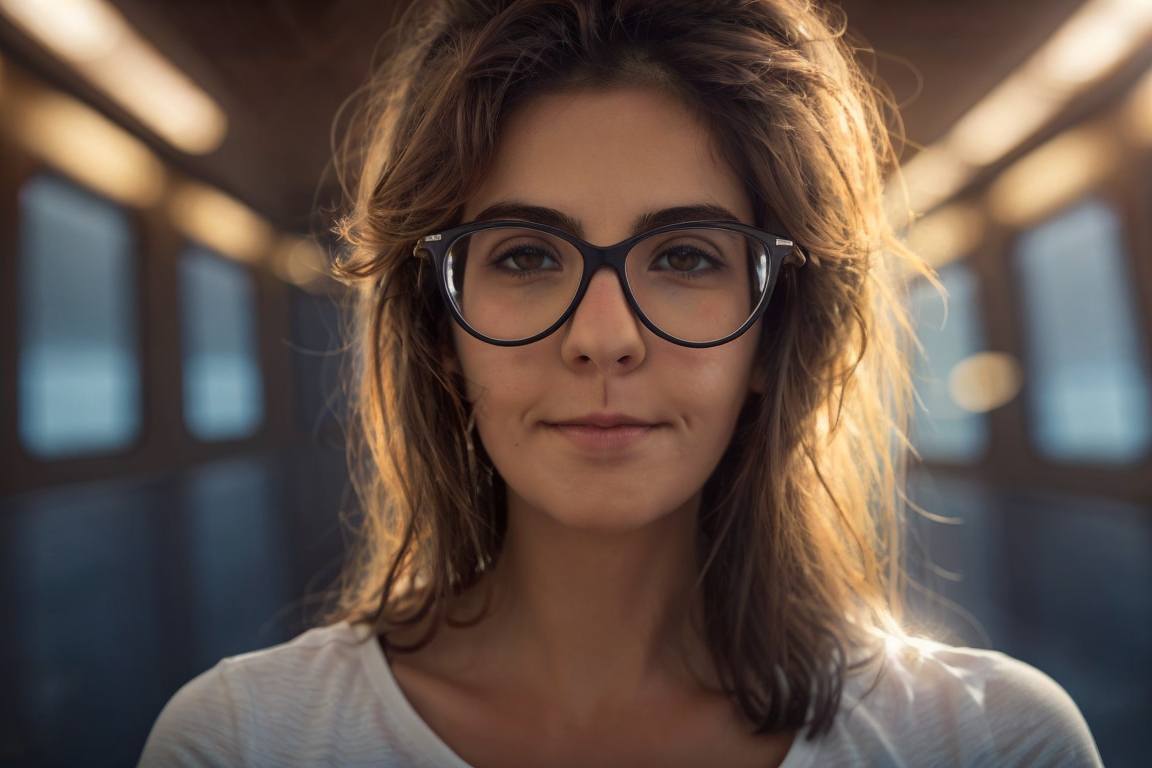
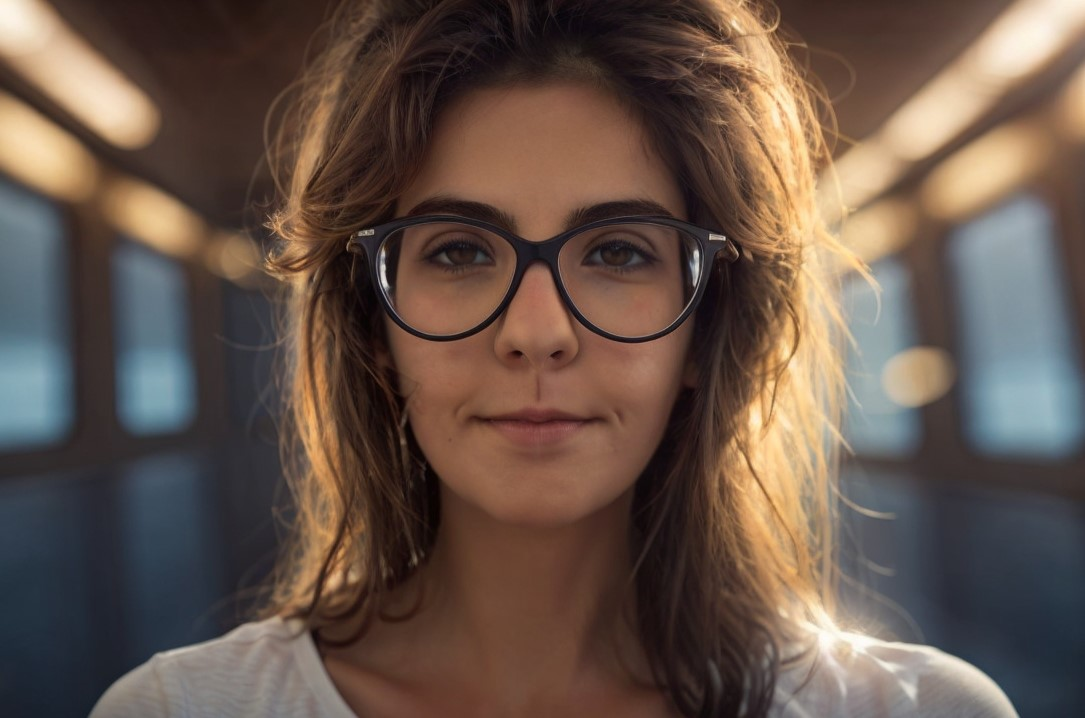
changes content, added blue dot

diff --git a/index.html b/index.html
@@ -7,8 +7,8 @@
         <link rel="stylesheet" href="stylesheet.css">
         <link href="https://fonts.googleapis.com/css2?family=Noto+Sans+Display&display=swap" rel="stylesheet">
 
-        <link rel="shortcut icon" href="C:\Users\Legion\Desktop\Learning-projects\CODE\LANDINGPAGE\media\favicon_sacrix.ico.svg" type="image/x-icon">
-        <link rel="icon" href="favicon_sacrix.ico.svg" type="image/x-icon">
+        <link rel="shortcut icon" href="C:\Users\Legion\Desktop\Learning-projects\CODE\LANDINGPAGE\media\favicon_sacrix.png" type="image/x-icon">
+        <link rel="icon" href="favicon_sacrix.png" type="image/x-icon">
 
        
 
@@ -19,7 +19,7 @@
     <main>
             <header>
                 <div class="svg-container">
-                    <svg width="209" height="51" viewBox="0 0 109 31" fill="none" xmlns="http://www.w3.org/2000/svg">
+                    <svg width="109" height="31" viewBox="0 0 109 31" fill="none" xmlns="http://www.w3.org/2000/svg">
                         <path d="M0 19.6081L5.68548 18.8333C5.92742 19.8183 6.41801 20.5691 7.15726 21.0856C7.89651 21.5901 8.93145 21.8423 10.2621 21.8423C11.7272 21.8423 12.8293 21.6021 13.5685 21.1216C14.0659 20.7853 14.3145 20.3348 14.3145 19.7703C14.3145 19.3859 14.1801 19.0676 13.9113 18.8153C13.629 18.5751 12.9973 18.3529 12.0161 18.1486C7.44624 17.2477 4.54973 16.4249 3.32661 15.6802C1.63306 14.6471 0.78629 13.2117 0.78629 11.3739C0.78629 9.71622 1.51882 8.32282 2.98387 7.19369C4.44892 6.06456 6.72043 5.5 9.79839 5.5C12.7285 5.5 14.9059 5.92643 16.3306 6.77928C17.7554 7.63213 18.7366 8.89339 19.2742 10.5631L13.9315 11.4459C13.703 10.7012 13.2661 10.1306 12.621 9.73423C11.9892 9.33784 11.082 9.13964 9.89919 9.13964C8.40726 9.13964 7.33871 9.32583 6.69355 9.6982C6.26344 9.96246 6.04839 10.3048 6.04839 10.7252C6.04839 11.0856 6.23656 11.3919 6.6129 11.6441C7.12366 11.9805 8.88441 12.455 11.8952 13.0676C14.9194 13.6802 17.0296 14.4309 18.2258 15.3198C19.4086 16.2207 20 17.476 20 19.0856C20 20.8393 19.1801 22.3468 17.5403 23.6081C15.9005 24.8694 13.4745 25.5 10.2621 25.5C7.34543 25.5 5.0336 24.9715 3.32661 23.9144C1.63306 22.8574 0.524194 21.4219 0 19.6081Z" fill="white"/>
                         <path d="M27.4122 11.7703L22.5527 10.9414C23.099 9.09159 24.0391 7.72222 25.3731 6.83333C26.7071 5.94444 28.6891 5.5 31.319 5.5C33.7075 5.5 35.4861 5.77027 36.655 6.31081C37.8238 6.83934 38.6433 7.51802 39.1133 8.34685C39.5961 9.16366 39.8375 10.6712 39.8375 12.8694L39.7803 18.7793C39.7803 20.461 39.8629 21.7042 40.0281 22.509C40.206 23.3018 40.5299 24.1547 41 25.0676H35.7021C35.5624 24.7312 35.3908 24.2327 35.1876 23.5721C35.0986 23.2718 35.0351 23.0736 34.997 22.9775C34.0822 23.8183 33.104 24.4489 32.0622 24.8694C31.0204 25.2898 29.9087 25.5 28.7272 25.5C26.6436 25.5 24.9983 24.9655 23.7914 23.8964C22.5971 22.8273 22 21.476 22 19.8423C22 18.7613 22.2732 17.8003 22.8195 16.9595C23.3658 16.1066 24.1281 15.458 25.1063 15.0135C26.0973 14.5571 27.5202 14.1607 29.3751 13.8243C31.878 13.3799 33.6122 12.9655 34.5777 12.5811V12.0766C34.5777 11.1036 34.3236 10.4129 33.8154 10.0045C33.3073 9.58408 32.348 9.37387 30.9378 9.37387C29.985 9.37387 29.2417 9.55405 28.7081 9.91441C28.1745 10.2628 27.7426 10.8814 27.4122 11.7703ZM34.5777 15.8784C33.8917 16.0946 32.8054 16.3529 31.319 16.6532C29.8325 16.9535 28.8606 17.2477 28.4032 17.536C27.7044 18.0045 27.3551 18.5991 27.3551 19.3198C27.3551 20.0285 27.6346 20.6411 28.1936 21.1577C28.7526 21.6742 29.4641 21.9324 30.328 21.9324C31.2935 21.9324 32.2146 21.6321 33.0913 21.0315C33.7392 20.5751 34.1648 20.0165 34.3681 19.3559C34.5079 18.9234 34.5777 18.1006 34.5777 16.8874V15.8784Z" fill="white"/>
                         <path d="M62.7206 11.5901L57.1916 12.491C57.0053 11.494 56.5795 10.7432 55.9142 10.2387C55.2621 9.73423 54.4105 9.48198 53.3593 9.48198C51.9621 9.48198 50.8443 9.92042 50.006 10.7973C49.181 11.6622 48.7685 13.1156 48.7685 15.1577C48.7685 17.4279 49.1876 19.0315 50.0259 19.9685C50.8776 20.9054 52.0153 21.3739 53.4391 21.3739C54.5037 21.3739 55.3752 21.1036 56.0539 20.5631C56.7325 20.0105 57.2116 19.0676 57.491 17.7342L63 18.5811C62.4278 20.8634 61.33 22.5871 59.7066 23.7523C58.0832 24.9174 55.9075 25.5 53.1796 25.5C50.0792 25.5 47.6041 24.6171 45.7545 22.8514C43.9182 21.0856 43 18.6411 43 15.518C43 12.3589 43.9248 9.9024 45.7745 8.14865C47.6241 6.38288 50.1257 5.5 53.2794 5.5C55.8609 5.5 57.9102 6.0045 59.4271 7.01351C60.9574 8.01051 62.0552 9.53604 62.7206 11.5901Z" fill="white"/>
@@ -43,17 +43,15 @@
            <br>
              With a decade-long background as a graphic designer and junior front-end, 
             <br>
-             I possess a strong interest in <b>true</b>  sustainable development.
+             I possess a strong interest in <b>true</b> sustainable development.
            </b>
         </div>
         <br>
                     
         </div> 
         
-            <div id="ai_Cris" class="column">
+            <div id="section01" class="column">
                 <h2 id="PT_design">
-            
-
                     Portuguese creative designer, based in Croatia.
                 </h2>   
                 
@@ -65,14 +63,19 @@
                         the photogenic version of myself.
                         </h3> 
                 <img src="media/Cris_beautiful_ai.jpg" alt="Cris" id="Cris_photo">
+                <svg width="13" height="12" viewBox="0 0 13 12" fill="none" xmlns="http://www.w3.org/2000/svg">
+                    <path d="M12.0544 5.85454C12.0544 9.08792 9.43326 11.7091 6.19988 11.7091C2.96651 11.7091 0.345337 9.08792 0.345337 5.85454C0.345337 2.62117 2.96651 0 6.19988 0C9.43326 0 12.0544 2.62117 12.0544 5.85454Z" fill="#92F6F0"/>
+                    </svg>
+                    
                 <p id="link_Leo">generated by <a href="https://leonardo.ai/" target="_blank"><b>Leo.</b></a></p>  
              </div> 
         
         <br>
-        <div id="section02">
-            <br>
-                   <br> 
-                    And <b>yes</b>, I enjoy walking <b>slackline</b> for fun.
+        <div id="section02">                   
+                    I enjoy walking on <b>slacklines</b> for fun.
+                    <br>
+
+
         </div>
         <div id="credits">  
             <p>Thanks <a id="nace_Link" href="https://www.instagram.com/nace.grg?igsh=MTNhcGR5OWVpNmJjdA==" target="_blank">Nace</a>, for the foto
@@ -112,20 +115,22 @@
                 <br>
                 <br>
                 <br>
-                <div id="contact">
-                <p>
-                    SACRIX, obrt za digitalne usluge, 
+            </div>
+                <div id="contact_biz">
                     <p>
-                    vl. Cristiana Gil da Cruz Rodrigues
-                    <br>   
-                        OIB:98688227
+                        SACRIX, obrt za digitalne usluge, 
+                        <p>
+                        vl. Cristiana Gil da Cruz Rodrigues
+                        <br>   
+                            OIB:98688227
+                        </p>
+                        PULA, CROATIA
                     </p>
-                    PULA, CROATIA
-                </p>
+                </div> 
                     <p id="copyrigths">
                         All copyrights belong to their respective owners © 
                     </p>
-                </div>
+                
             </div> 
         
     </main>

diff --git a/stylesheet.css b/stylesheet.css
@@ -1,11 +1,4 @@
-#ai_Cris {
-    color:  rgb(223, 200, 160);
-    width: 100%;
-    align-items: flex-start;
-    display: flex;
-    text-align: center;
-    justify-content: center; /* Centers children horizontally */
-}
+
 
 .column {
     flex: 1; /* This makes each column take up equal space */
@@ -15,6 +8,8 @@
 
 #Cris_photo{
     max-block-size: 50vh;
+    border-radius: 100%;
+ 
 }
 
 #link_Leo{
@@ -29,6 +24,15 @@
     padding: 50px;
 }
 
+#section01 {
+    color:  rgb(223, 200, 160);
+    width: 100%;
+    align-items: flex-start;
+    display: flex;
+    text-align: center;
+    justify-content: center; /* Centers children horizontally */
+}
+
 #section02 {
     background-image: url('media/background_image.jpg');
     background-repeat: no-repeat;
@@ -37,9 +41,10 @@
     height: 90vh;
     padding: 50px;
     color: rgb(21, 91, 106);
+    justify-content:center;
 }
 
-    #description {
+#description {
     color:rgb(223, 200, 160);
 }
 
@@ -66,16 +71,20 @@
 
 #copyrigths {
     bottom: 0;
+    font-size: 8pt;
+    color:   rgb(223, 200, 160);
 
 }
 
 #contacts {
-   
-    color:    rgb(255, 255, 255)
-
+   color: rgb(255, 255, 255);
 }
 
+#contact_biz {
+    font-size: 8pt;
+    color:   rgb(223, 200, 160);
 
+}
 
 body {
     font-family: Arial, Helvetica, sans-serif;

diff --git a/Gallery.html b/Gallery.html
@@ -1,0 +1,12 @@
+<!DOCTYPE html>
+<html lang="en">
+<head>
+    <meta charset="UTF-8">
+    <meta name="viewport" content="width=device-width, initial-scale=1.0">
+    
+    <title>Document</title>
+</head>
+<body>
+    
+</body>
+</html>